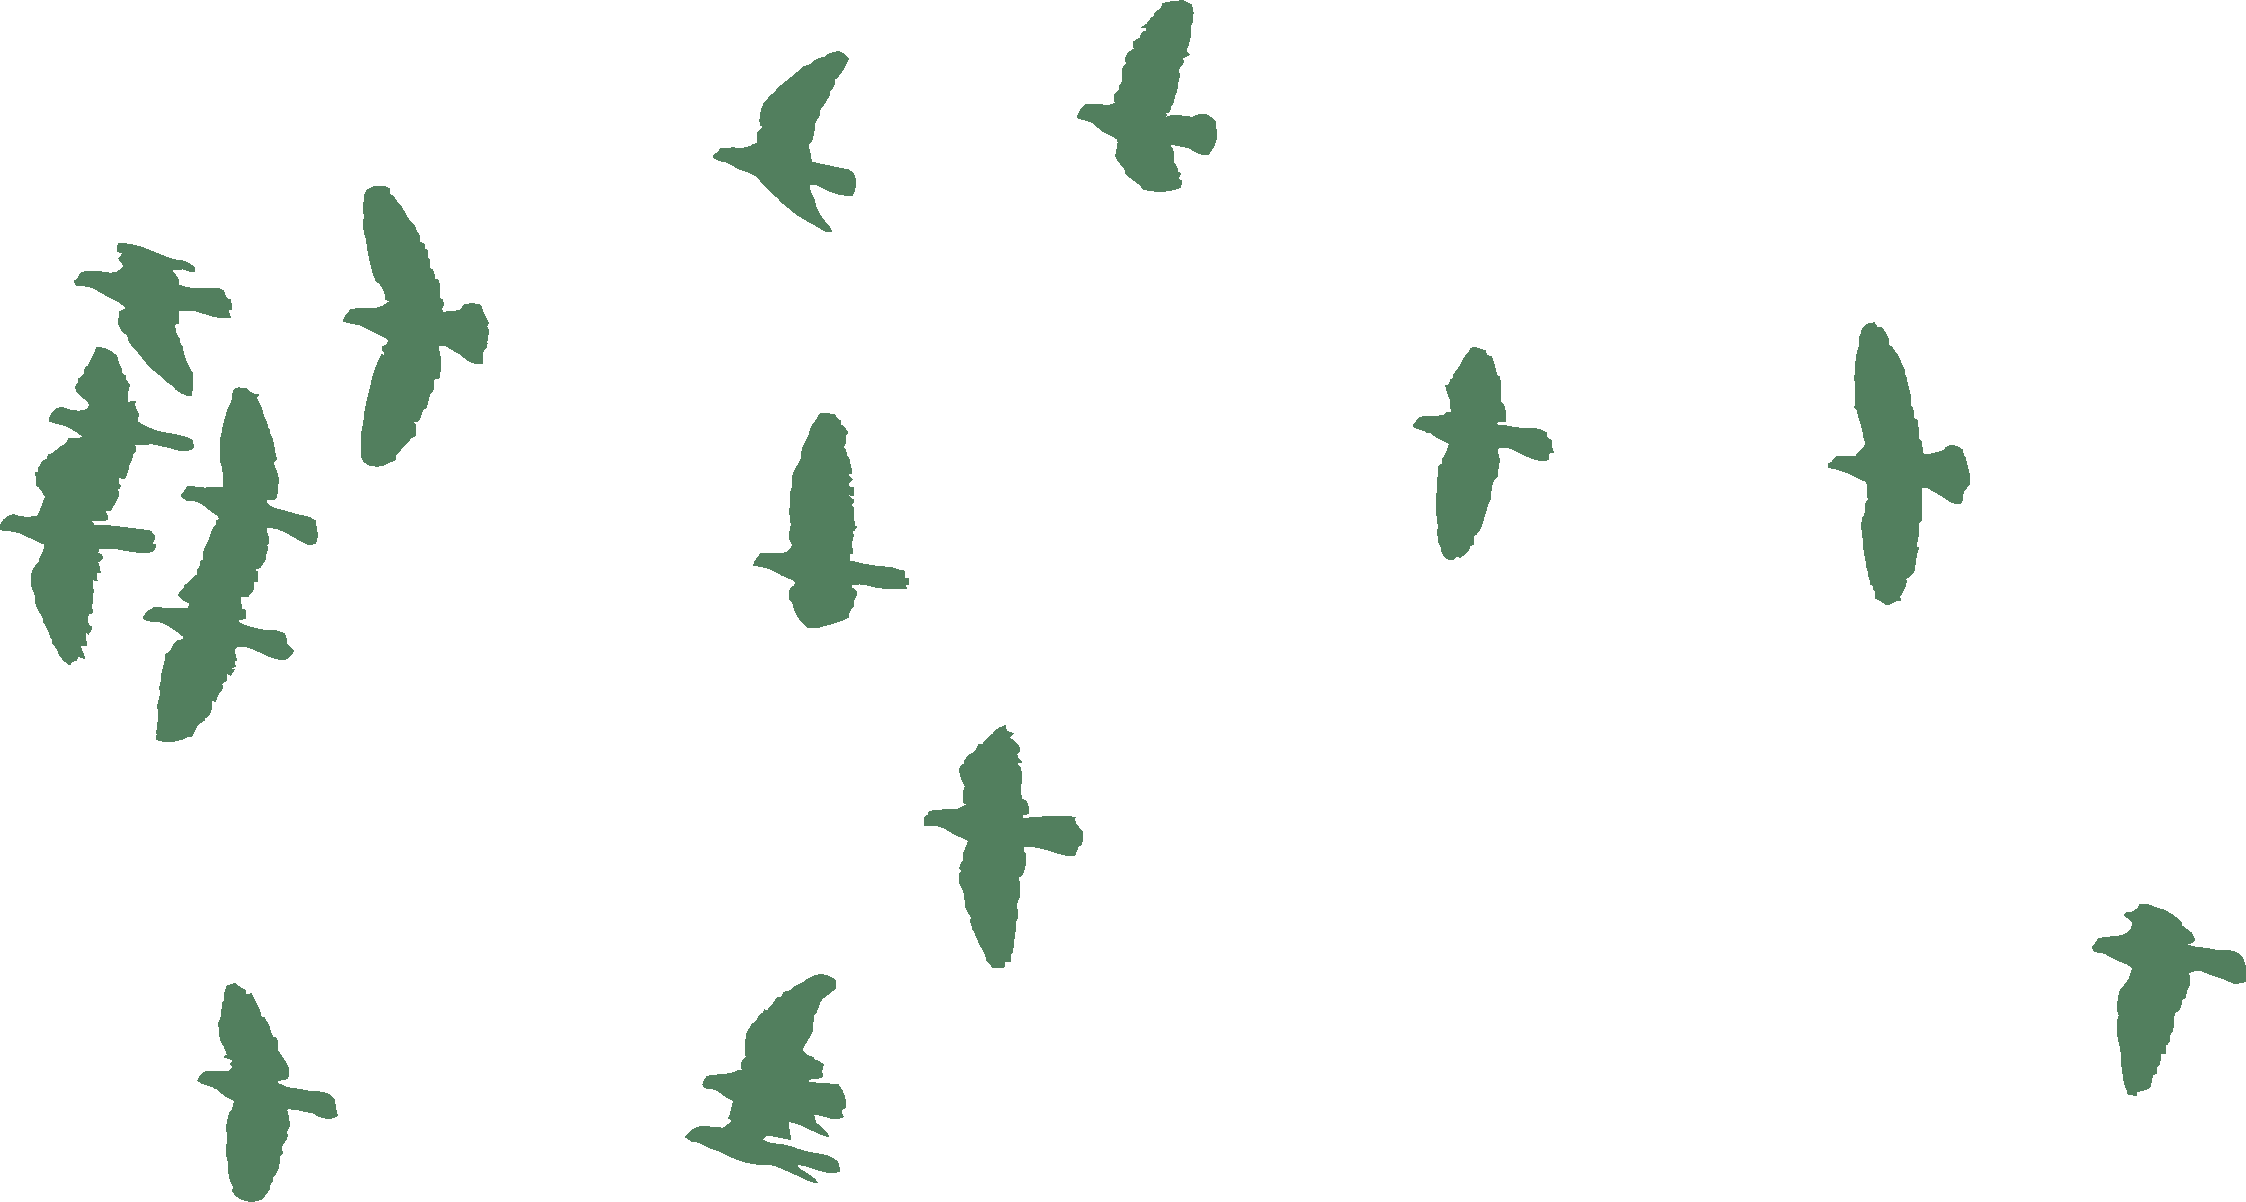
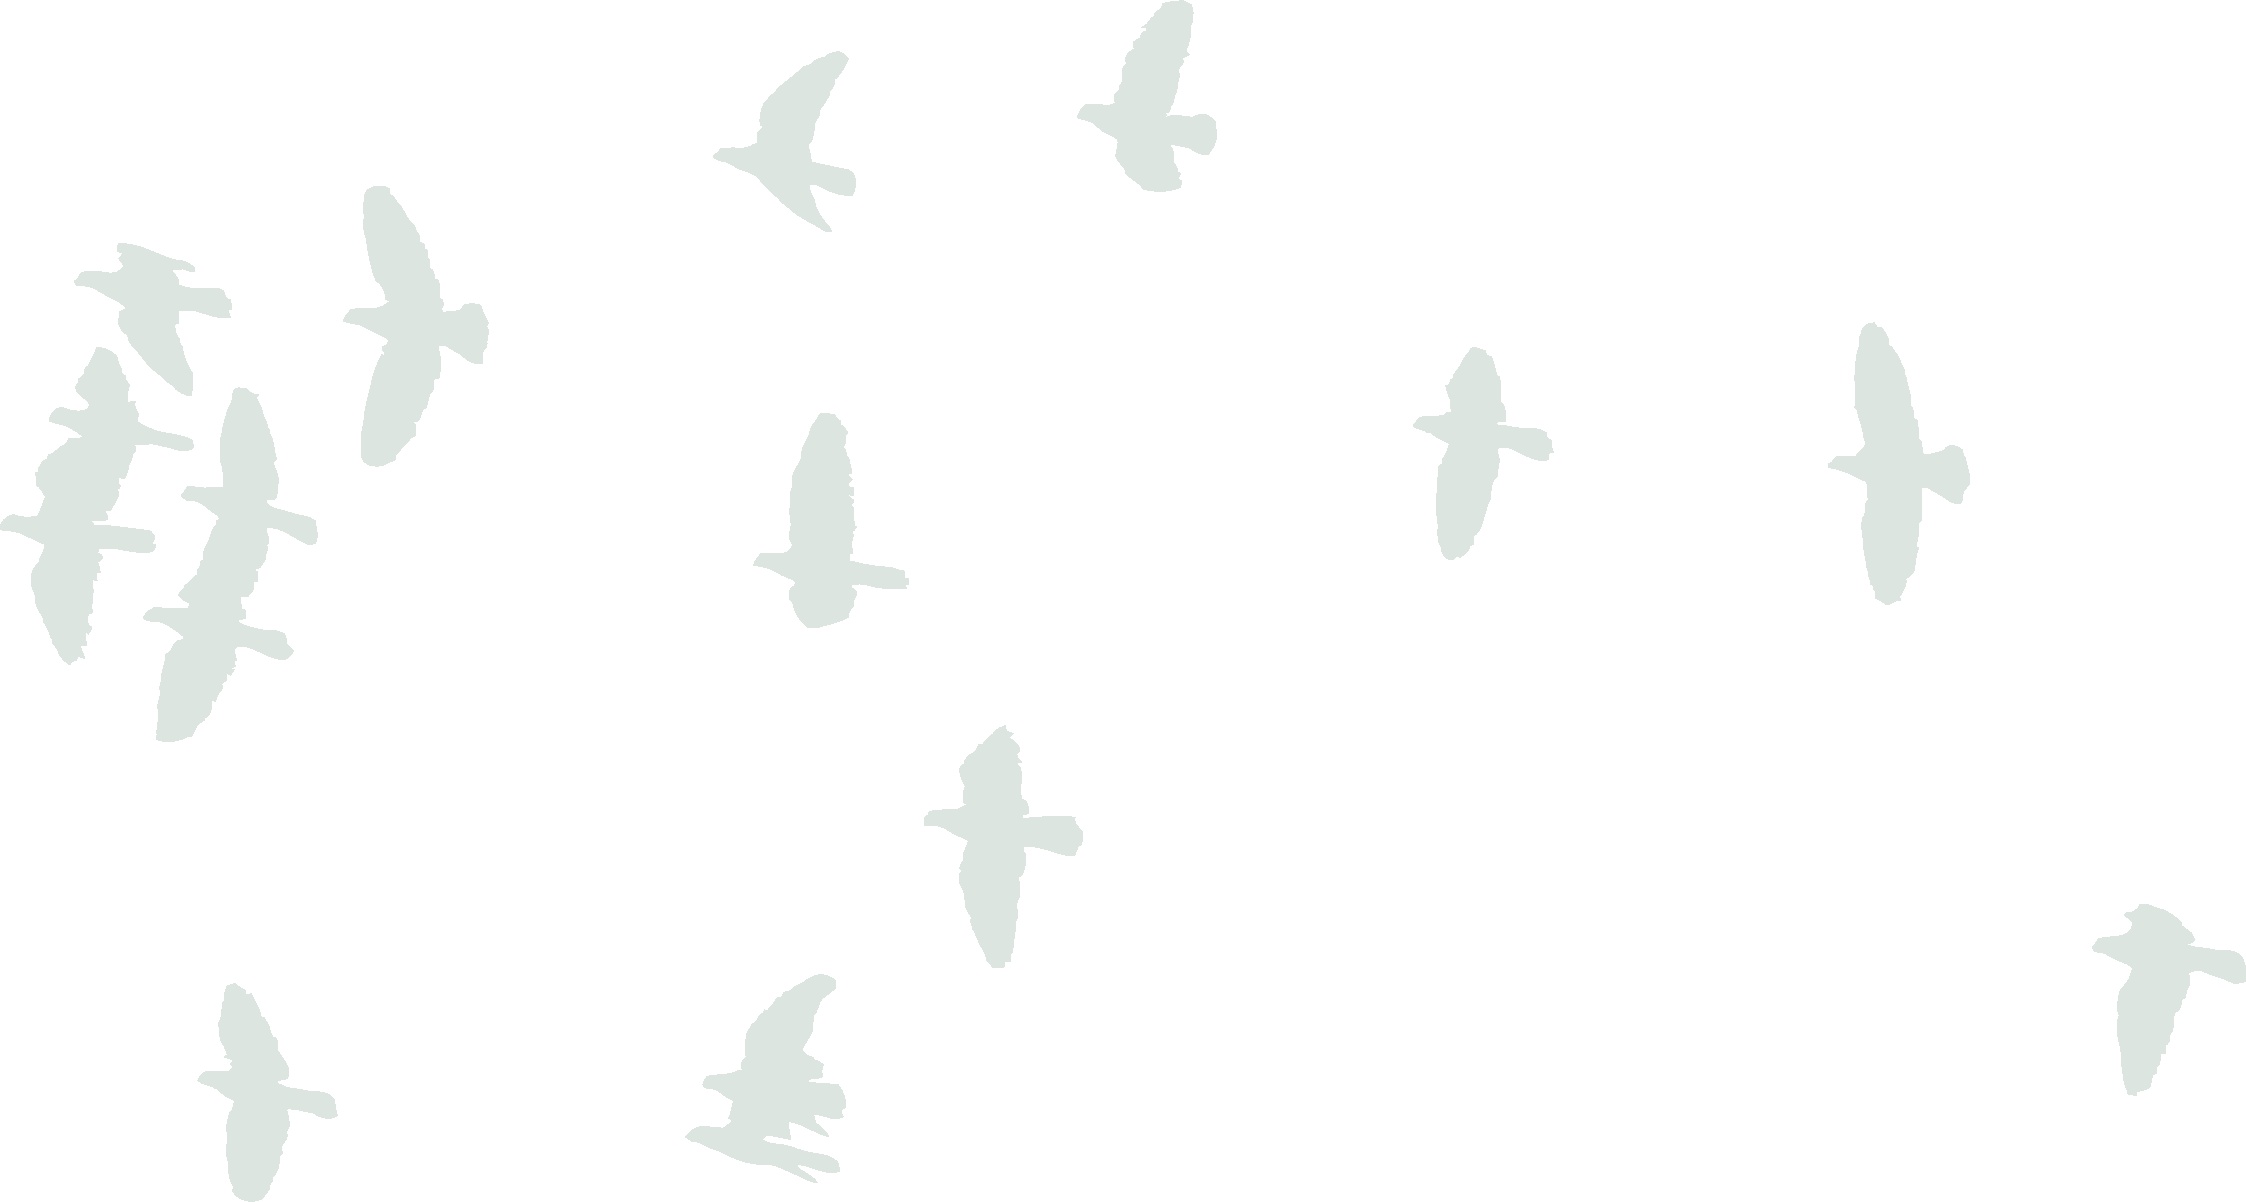
Change color palette to more subtle colors

diff --git a/src/layout.scss b/src/layout.scss
@@ -2,10 +2,10 @@
 @import '~bootstrap/scss/bootstrap';
 @import url('https://fonts.googleapis.com/css2?family=Material+Symbols+Outlined:opsz,wght,FILL,GRAD@20..48,100..700,0..1,-50..200');
 
-$background-green: #67a076;
-$background-green-transparent: rgba(103, 160, 118, 0.93);
-$dark-green: #3a5d41;
-$dark-green-transparent: rgba(58, 93, 65, 0.8);
+$background-green: #abb7ae;
+$background-green-transparent: rgba(140, 163, 146, 0.93);
+$dark-green: #436049;
+$dark-green-transparent: rgba(66, 93, 73, 0.8);
 $darker-green: #213425;
 $highlight-yellow: #ffc561;
 $off-white: #f9f9f9;

diff --git a/src/pages/skills/skills.scss b/src/pages/skills/skills.scss
@@ -7,7 +7,6 @@
   position: relative;
   margin: -2rem auto -3rem;
   z-index: -1;
-
   background-image: url('../../images/bird-silhouette-green.png');
   background-repeat: no-repeat;
   background-position: 0vw 0;
@@ -62,15 +61,6 @@
     &--bttm {
       visibility: hidden;
     }
-  }
-
-  &__birds {
-    position: absolute;
-    height: 110vh;
-    top: 0;
-    margin-top: 15rem;
-    opacity: 0.2;
-    z-index: -1;
   }
 }
 

diff --git a/src/pages/intro/intro.scss b/src/pages/intro/intro.scss
@@ -24,7 +24,7 @@
     width: 33rem;
     right: 64vw;
     top: 10vh;
-    opacity: 0.38;
+    opacity: 0.1;
     transform: rotate(95.9deg);
     z-index: -1;
   }

diff --git a/src/pages/projects/projects.scss b/src/pages/projects/projects.scss
@@ -60,7 +60,7 @@
   }
 
   &__img-btn:hover {
-    border-color: #198754;
+    border-color: $dark-green;
   }
 
   &__light {
